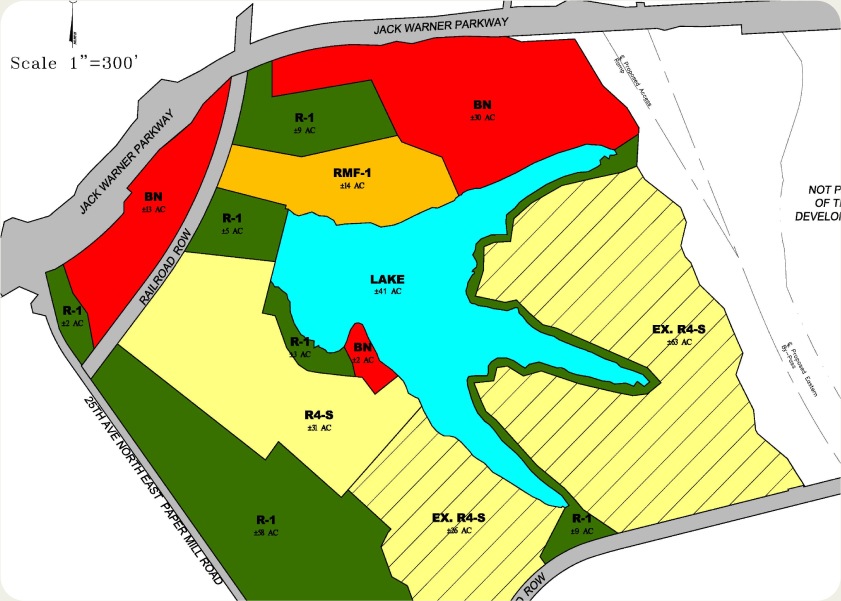
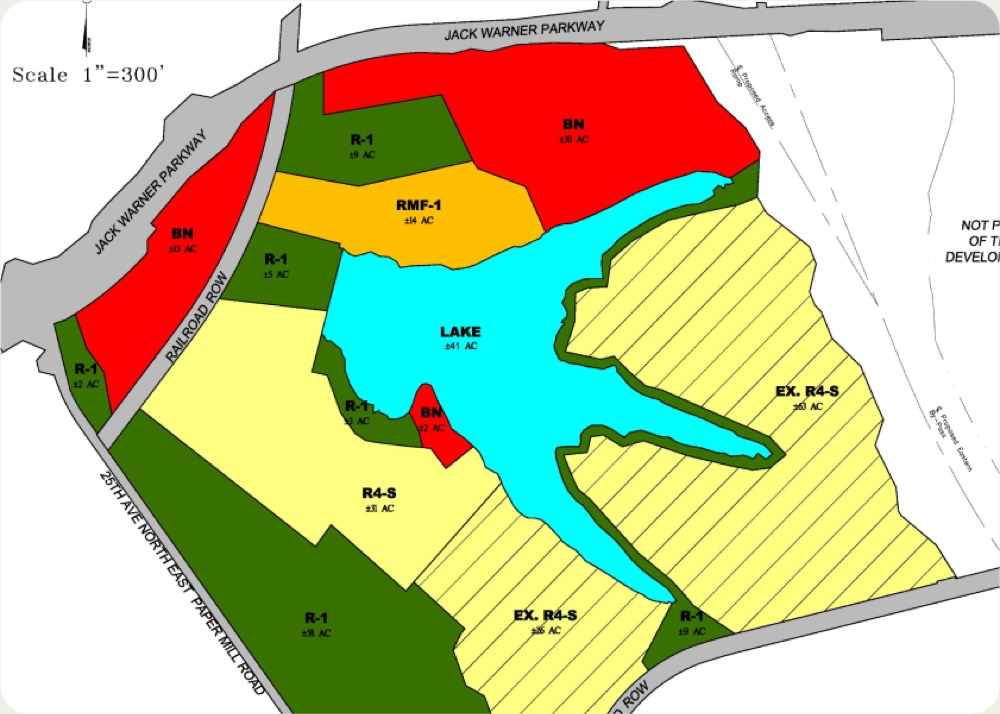
Update site

diff --git a/land-for-sale-single.php b/land-for-sale-single.php
@@ -186,7 +186,7 @@
 
 
 	<div class="bg-tan w-full">
-		<div class="content">
+		<div class="content py-20">
 			<div class="flex  flex lg:flex-row flex-col justify-between w-full gap-5 lg:items-end py-8">
 				<div class="flex">
 					<span class="greendot lg:mt-4 mt-2 mr-3"></span>
